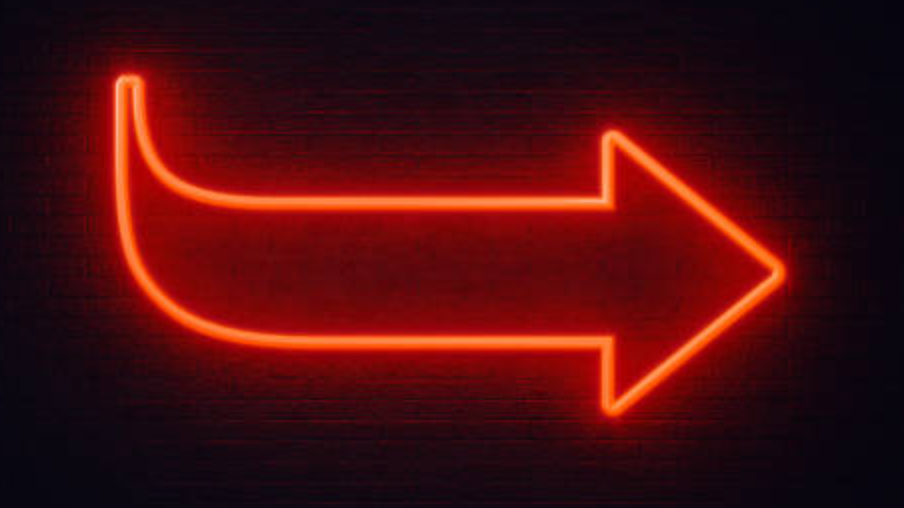
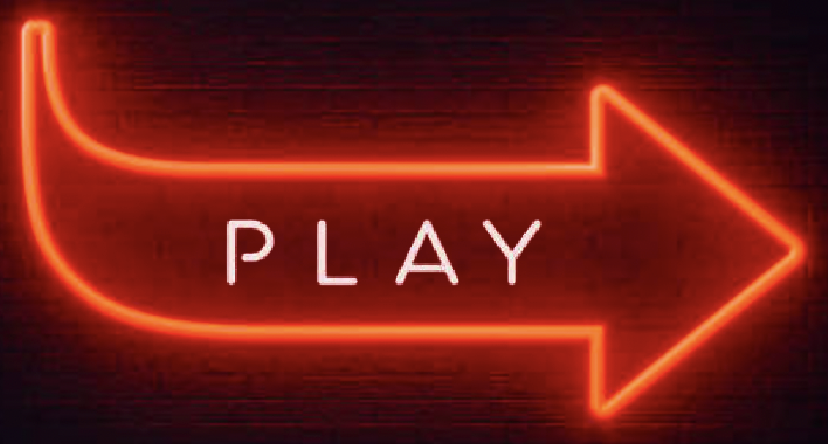
Added play to neon arrow moved to images and centred

diff --git a/app/assets/stylesheets/images.css b/app/assets/stylesheets/images.css
@@ -8,6 +8,14 @@
   width: 55%;
 }
 
+.landing-page-img {
+  height: 30%;
+  width: 30%;
+  border-radius: 2%;
+  margin-top: 10px;
+  margin-left: 35%;
+}
+
 .page1-img {
   margin-top: 2%;
   margin-bottom: 2%;

diff --git a/app/assets/stylesheets/index.css b/app/assets/stylesheets/index.css
@@ -33,12 +33,6 @@
   color: white;
 }
 
-.landing-page-img {
-  height: 30%;
-  width: 30%;
-  align-self: center;
-}
-
 .puzzle-form {
   padding-top: 5%;
   padding-bottom: 5%;
